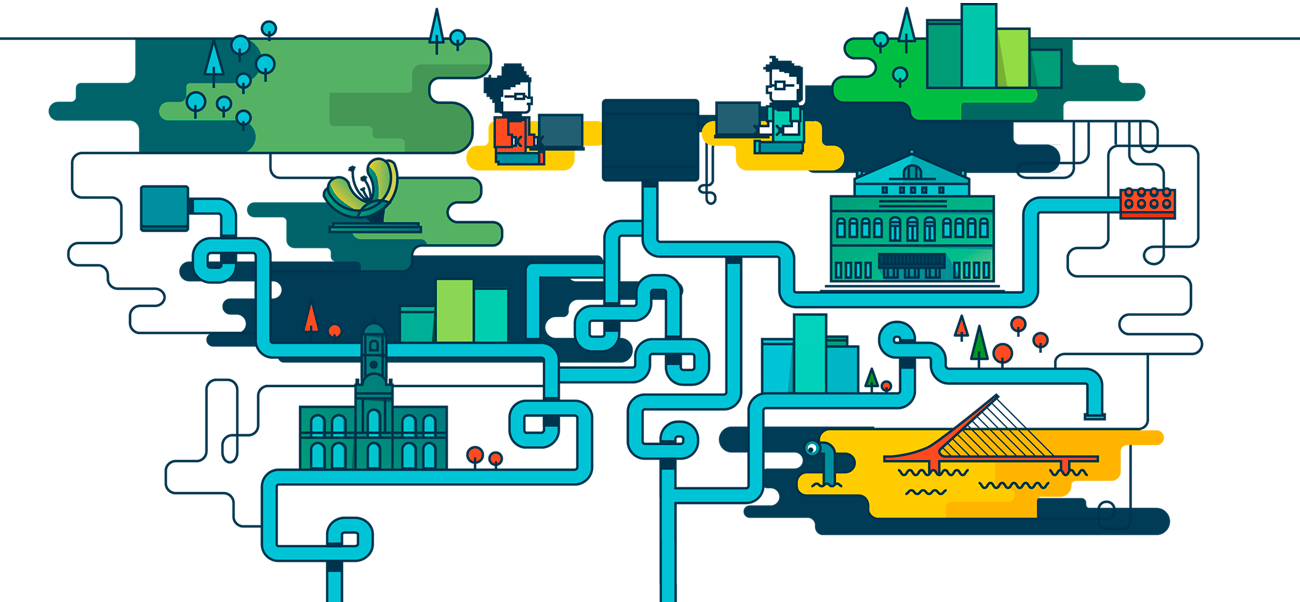
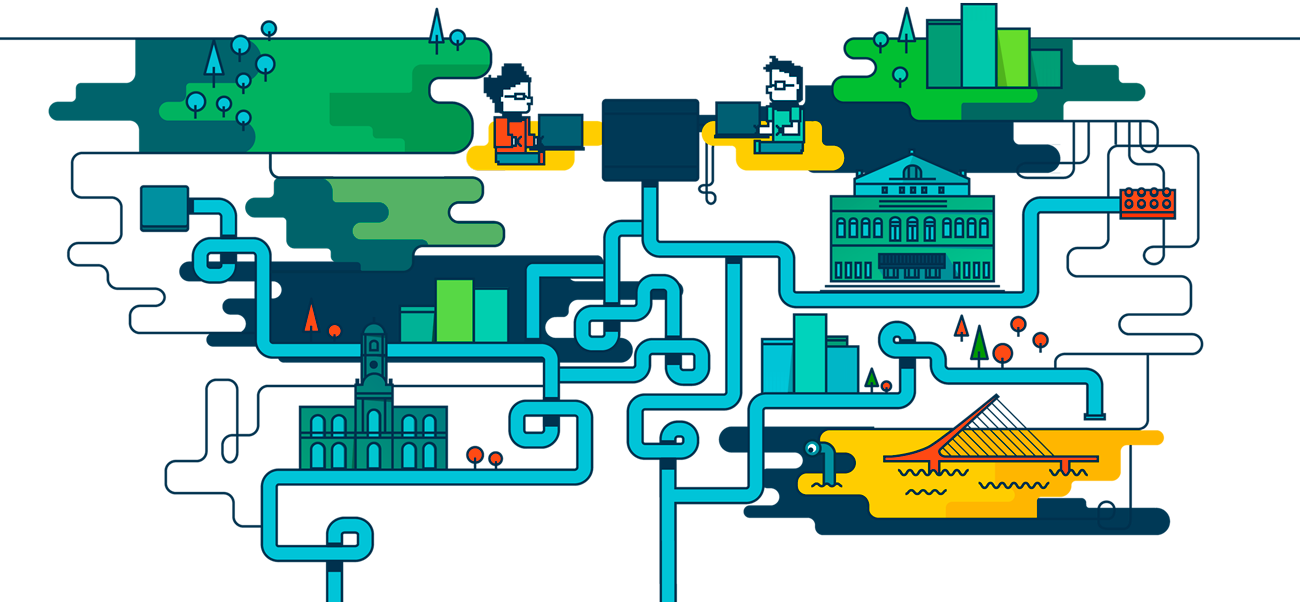
Animacion de Flor

diff --git a/index.html b/index.html
@@ -399,6 +399,27 @@
           </div>
          
         </div>
+        <!-- Flower -->
+        <div class="flower">
+          <div class="flower-base">
+            <svg version="1.1" xmlns="http://www.w3.org/2000/svg" xmlns:xlink="http://www.w3.org/1999/xlink" xmlns:a="http://ns.adobe.com/AdobeSVGViewerExtensions/3.0/" x="0px" y="0px" width="76px" height="28.6px" viewBox="0 0 76 28.6" enable-background="new 0 0 76 28.6" xml:space="preserve"><path fill="none" stroke="#0C374E" stroke-width="2" stroke-linecap="round" stroke-linejoin="round" stroke-miterlimit="10" d="M34.2,2.9c-0.1,0-0.1,0-0.2,0"/><linearGradient id="SVGID_1_" gradientUnits="userSpaceOnUse" x1="5.1891" y1="-25.6308" x2="30.8273" y2="-25.6308" gradientTransform="matrix(0.9999 1.007402e-02 -1.007402e-02 0.9999 18.8223 33.611)"><stop offset="0" style="stop-color:#009B79"/><stop offset="1" style="stop-color:#01747B"/></linearGradient><path fill="url(#SVGID_1_)" d="M39.4,11.4c-4.8,2.4-15.2,3.3-15.2,3.3s3.7-8.6,10.6-11.5s15.2-1,15.2-1S44.2,9,39.4,11.4z"/><path fill="none" stroke="#0C374E" stroke-width="2" stroke-linecap="round" stroke-linejoin="round" stroke-miterlimit="10" d="M50.1,2.9c-4.8-2.3-10.6-2.6-15.8-0.1c-5.2,2.4-8.8,7-10.1,12.2c0,0,10-0.2,15.2-3.3C43.8,9,50.1,2.9,50.1,2.9z"/><path fill="none" stroke="#0C374E" stroke-width="2" stroke-linejoin="round" stroke-miterlimit="10" d="M27.2,8.6c1.8,0,11.6-0.5,17.5-7.5"/><polygon fill="#103149" points="45.3,23.8 41.7,24.2 31.7,14.9 45.2,9.4 "/><linearGradient id="SVGID_2_" gradientUnits="userSpaceOnUse" x1="5" y1="22.1036" x2="73" y2="22.1036"><stop offset="0" style="stop-color:#009B79"/><stop offset="1" style="stop-color:#01747B"/></linearGradient><rect x="5" y="20.6" fill="url(#SVGID_2_)" width="68" height="3"/><linearGradient id="SVGID_3_" gradientUnits="userSpaceOnUse" x1="2" y1="25.6036" x2="76" y2="25.6036"><stop offset="0" style="stop-color:#009B79"/><stop offset="1" style="stop-color:#01747B"/></linearGradient><rect x="2" y="23.6" fill="url(#SVGID_3_)" width="74" height="4"/><rect x="1" y="23.6" fill="none" stroke="#0C374E" stroke-width="2" stroke-miterlimit="10" width="74" height="4"/><rect x="4" y="20.6" fill="none" stroke="#0C374E" stroke-width="2" stroke-miterlimit="10" width="69" height="3"/><polygon fill="none" stroke="#0C374E" stroke-width="2" stroke-miterlimit="10" points="39.4,12.1 33,15.3 39.4,20.6 44,20.6 45.5,8.8 "/></svg>
+          </div> 
+          <div class="flower-petal-1">
+            <svg version="1.1" xmlns="http://www.w3.org/2000/svg" xmlns:xlink="http://www.w3.org/1999/xlink" xmlns:a="http://ns.adobe.com/AdobeSVGViewerExtensions/3.0/" x="0px" y="0px" width="42.4px" height="29.2px" viewBox="0 0 42.4 29.2" enable-background="new 0 0 42.4 29.2" xml:space="preserve"><defs></defs><path fill="#CCCA5D" d="M3.4,17.2c-4.1-3.4-3-9.1,0-12.8C6.5,0.6,12,0.1,15.7,3.2c0.3,0.3,2.4,2.7,3.1,6c1.5,5.5,14,12.5,14,12.5l7.1,1.1l-4.8,3.3l-6.7,1.9C28.4,27.9,16.8,30.6,3.4,17.2z"/><path fill="#159679" d="M32.5,24.4c-1.2,0.2-2.4,0.3-3.6,0.3C19.8,24.6,13,23,4.6,13.4c-3.3-2.7-4.6,0.9-0.5,4.3c13.4,13.4,25,10.8,25,10.8l6.7-1.9l4.8-3.3L38,22.9C36.1,23.5,34.3,24,32.5,24.4z"/><path fill="none" stroke="#0C374E" stroke-width="2" stroke-linecap="round" stroke-linejoin="round" stroke-miterlimit="10" d="M36.9,25.5C23.6,31.8,8,26.7,1.9,13.7l0,0C-0.2,9.2,1.6,4,6.1,1.9s9.7-0.2,11.8,4.2l0,0c0.4,1.4,0.5,1.9,1.2,3.2c3.2,6.7,9.3,11.1,16,12.4l6.3,1.1C40,23.8,38.5,24.7,36.9,25.5z"/></svg>
+          </div>
+          <div class="flower-petal-2">
+            <svg version="1.1" xmlns="http://www.w3.org/2000/svg" xmlns:xlink="http://www.w3.org/1999/xlink" xmlns:a="http://ns.adobe.com/AdobeSVGViewerExtensions/3.0/" x="0px" y="0px" width="42.6px" height="28.8px" viewBox="0 0 42.6 28.8" enable-background="new 0 0 42.6 28.8" xml:space="preserve"><defs></defs><path fill="#C3C151" d="M3.5,17.3C-0.6,14,0.3,8.2,3.3,4.5c3-3.8,8.5-4.4,12.3-1.4C15.9,3.3,18,5.7,18.9,9c1.6,5.5,14.3,12.2,14.3,12.2l7.6,1.4l-5.7,2.2l-6.3,2.8C28.8,27.6,17.2,30.5,3.5,17.3z"/><path fill="#1F9079" d="M32.1,23.4c-5.4,1.2-11,0.3-15.9-2c-2.5-1.2-4.8-2.7-6.8-4.5c-2.2-1.9-4.1-4.6-7-5.4c-0.2,0-0.4-0.1-0.6-0.1c0.6,2.7,1.7,6,3.8,7.8c4.4,3.9,10.6,7.2,16.4,8.2c1.9,0.4,5.2,1,7.1,0.1l6.3-2.8l5.7-2.2c-1-0.2-2-0.4-3-0.5c-1.7-0.3-2.3,0.2-4,0.8C33.4,23.1,32.7,23.3,32.1,23.4z"/><path fill="none" stroke="#0C374E" stroke-width="2" stroke-linecap="round" stroke-linejoin="round" stroke-miterlimit="10" d="M37.2,24.9C24,31.5,8.4,26.7,1.9,13.8l0,0c-2.2-4.4-0.4-9.7,4-11.9s9.7-0.4,11.9,4l0,0c0.4,1.4,0.6,1.8,1.2,3.2c3.3,6.6,9.5,10.9,16.3,12l6.3,1C40.3,23.2,38.8,24.1,37.2,24.9z"/></svg>
+          </div>
+          <div class="flower-petal-3">
+            <svg version="1.1" xmlns="http://www.w3.org/2000/svg" xmlns:xlink="http://www.w3.org/1999/xlink" xmlns:a="http://ns.adobe.com/AdobeSVGViewerExtensions/3.0/" x="0px" y="0px" width="22.6px" height="43.4px" viewBox="0 0 22.6 43.4" enable-background="new 0 0 22.6 43.4" xml:space="preserve"><defs></defs><path fill="#CCCA5D" d="M20.9,9.5c0-5.3-5.1-8.2-9.9-8.2c-4.8,0-8.7,3.9-8.7,8.7c0,0.4,0.5,3.5,2.6,6.2C8.2,21,5.6,35.1,5.6,35.1l-3.7,6.2l5.6-1.6l5.8-4C13.2,35.7,22.7,28.5,20.9,9.5z"/><path fill="#117D7A" d="M9.2,37c2.7-4.3,2.8-10.6,2.2-15.6c-0.3-2.7-1.1-5.1-2.4-7.5c-0.7-1.3-1.6-2.5-2.6-3.7c-0.3-0.3-3.1-3-3.1-3c-0.4,1-0.7,2.2-0.7,3.4c0,0.4,0.5,3.5,2.6,6.2C8.5,21.5,5,36.6,5,36.6s-4.4,5.2-3.1,5C5.4,41.1,7.7,39.4,9.2,37z"/><path fill="none" stroke="#0C374E" stroke-width="2" stroke-linecap="round" stroke-linejoin="round" stroke-miterlimit="10" d="M5.9,40.6c13.3-6.2,19.4-21.4,13.3-34.5l0,0c-2.1-4.4-7.4-6.4-11.8-4.3S1.1,9.2,3.1,13.6l0,0c0.8,1.2,1.1,1.6,1.7,2.9C8,23.3,7.5,30.8,4.2,36.8L1,42.4C2.7,41.9,4.3,41.4,5.9,40.6z"/></svg>
+          </div>
+          <div class="flower-petal-4">
+            <svg version="1.1" xmlns="http://www.w3.org/2000/svg" xmlns:xlink="http://www.w3.org/1999/xlink" xmlns:a="http://ns.adobe.com/AdobeSVGViewerExtensions/3.0/" x="0px" y="0px" width="22.6px" height="43.4px" viewBox="0 0 22.6 43.4" enable-background="new 0 0 22.6 43.4" xml:space="preserve"><defs></defs><path fill="#9FB85E" d="M20.9,9.5c0-5.3-5.1-8.2-9.9-8.2c-4.8,0-8.7,3.9-8.7,8.7c0,0.4,0.5,3.5,2.6,6.2C8.2,21,5.6,35.1,5.6,35.1l1.6,3.8l6.1-3.2C13.2,35.7,22.7,28.5,20.9,9.5z"/><path fill="#13867A" d="M9,37c2.7-4.3,2.8-10.6,2.2-15.6c-0.3-2.7-1.1-5.1-2.4-7.5c-0.7-1.3-1.6-2.5-2.6-3.7c-0.3-0.3-3.1-3-3.1-3c-0.4,1-0.7,2.2-0.7,3.4c0,0.4,0.5,3.5,2.6,6.2c3.3,4.7-0.2,19.8-0.2,19.8s-4.4,5.2-3.1,5C5.2,41.1,7.5,39.4,9,37z"/><path fill="none" stroke="#0C374E" stroke-width="2" stroke-linecap="round" stroke-linejoin="round" stroke-miterlimit="10" d="M5.9,40.6c13.3-6.2,19.4-21.4,13.3-34.5l0,0c-2.1-4.4-7.4-6.4-11.8-4.3S1.1,9.2,3.1,13.6l0,0c0.8,1.2,1.1,1.6,1.7,2.9C8,23.3,7.5,30.8,4.2,36.8L1,42.4C2.7,41.9,4.3,41.4,5.9,40.6z"/></svg>
+          </div>
+          <div class="flower-inner">
+            <svg version="1.1" xmlns="http://www.w3.org/2000/svg" xmlns:xlink="http://www.w3.org/1999/xlink" xmlns:a="http://ns.adobe.com/AdobeSVGViewerExtensions/3.0/" x="0px" y="0px" width="19.3px" height="31.4px" viewBox="0 0 19.3 31.4" enable-background="new 0 0 19.3 31.4" xml:space="preserve"><path fill="none" stroke="#0C374E" stroke-width="2" stroke-linecap="round" stroke-linejoin="round" stroke-miterlimit="10" d="M16.9,29.4C9.8,25.1,4.8,17.7,4,8.8C3.8,6.9,3.8,5,4,3.1"/><path fill="none" stroke="#0C374E" stroke-width="2" stroke-linecap="round" stroke-linejoin="round" stroke-miterlimit="10" d="M18.1,29c-2.6-2.7-4.6-5.9-5.8-9.5"/><path fill="none" stroke="#0C374E" stroke-width="2" stroke-linecap="round" stroke-linejoin="round" stroke-miterlimit="10" d="M18,29.8c1-6.2-0.5-12.8-4.5-18.1"/><path fill="none" stroke="#0C374E" stroke-width="2" stroke-linecap="round" stroke-linejoin="round" stroke-miterlimit="10" d="M17.7,30.4c-0.1,0-0.1,0-0.2,0"/><g><rect x="1.2" y="0.6" transform="matrix(0.9063 -0.4226 0.4226 0.9063 -0.8025 1.567)" fill="#0C374E" width="3.9" height="3.9"/><rect x="0.1" y="1.8" transform="matrix(0.9063 -0.4226 0.4226 0.9063 -0.8025 1.567)" fill="#0C374E" width="6.1" height="1.7"/></g><g><rect x="10.6" y="8.7" transform="matrix(0.9063 -0.4226 0.4226 0.9063 -3.3145 6.3007)" fill="#0C374E" width="3.9" height="3.9"/><rect x="10" y="9.7" transform="matrix(0.9063 -0.4226 0.4226 0.9063 -3.241 6.3964)" fill="#0C374E" width="5.6" height="1.7"/></g><g><rect x="10.6" y="18.2" transform="matrix(0.9063 -0.4226 0.4226 0.9063 -7.0361 6.8741)" fill="#0C374E" width="2.9" height="2.3"/><rect x="9.9" y="18.2" transform="matrix(0.9063 -0.4226 0.4226 0.9063 -6.9377 6.7986)" fill="#0C374E" width="4" height="1.7"/></g></svg>
+          </div>
+        </div>
 
       </div>
       <!-- Numbers -->

diff --git a/static/styles/styles.css b/static/styles/styles.css
@@ -4795,6 +4795,109 @@ body {
   stroke-dasharray: 0, 0, 0, 70, 19, 274;
 }
 
+.flower {
+  width: 100px;
+  height: 75px;
+  position: absolute;
+  top: 160px;
+  left: 50%;
+  margin-left: -328px;
+}
+
+.flower-base {
+  position: absolute;
+  bottom: 0;
+  right: 0;
+  z-index: 10;
+  width: 95px;
+  height: 35px;
+}
+
+.flower-base svg {
+  width: 100%;
+  height: 100%;
+}
+
+.flower .flower-petal-1,
+.flower .flower-petal-2 {
+  -webkit-transform-origin: right bottom;
+  -ms-transform-origin: right bottom;
+  transform-origin: right bottom;
+}
+
+.flower .flower-petal-3,
+.flower .flower-petal-4 {
+  -webkit-transform-origin: left bottom;
+  -ms-transform-origin: left bottom;
+  transform-origin: left bottom;
+}
+
+.flower-petal-1,
+.flower-petal-2,
+.flower-petal-3,
+.flower-petal-4 {
+  -webkit-transition: all 0.3s ease-in;
+  transition: all 0.3s ease-in;
+}
+
+.flower-petal-1 svg,
+.flower-petal-2 svg,
+.flower-petal-3 svg,
+.flower-petal-4 svg {
+  width: 100%;
+  height: 100%;
+}
+
+.flower-petal-1 {
+  position: absolute;
+  top: 27px;
+  left: 0;
+  z-index: 8;
+  width: 47px;
+  height: 33px;
+}
+
+.flower-petal-2 {
+  position: absolute;
+  top: 18px;
+  left: 5px;
+  z-index: 9;
+  width: 47px;
+  height: 36px;
+}
+
+.flower-petal-3 {
+  position: absolute;
+  top: 0px;
+  right: 28px;
+  z-index: 9;
+  width: 27px;
+  height: 49px;
+}
+
+.flower-petal-4 {
+  position: absolute;
+  top: 3px;
+  right: 22px;
+  z-index: 8;
+  width: 27px;
+  height: 49px;
+}
+
+.flower-inner {
+  position: absolute;
+  bottom: 30px;
+  right: 50px;
+  z-index: 1;
+  width: 25px;
+  height: 35px;
+}
+
+.flower-inner svg {
+  width: 100%;
+  height: 100%;
+}
+
 @-webkit-keyframes shake-base {
   0% {
     -webkit-transform: translate(0px, 0px) rotate(0deg);
@@ -11564,3 +11667,5 @@ main {
   opacity: 0.5;
   display: none;
 }
+
+/*# sourceMappingURL=styles.css.map */

diff --git a/static/styles/animations-headers.scss b/static/styles/animations-headers.scss
@@ -810,6 +810,96 @@
 .hackers .cable_right .cable-right-4 {
   stroke-dasharray: 0, 0, 0, 70, 19, 274;
 }
+.flower {
+  width: 100px;
+  height: 75px;
+  position: absolute;
+  top: 160px;
+  left: 50%;
+  margin-left: -328px;
+}
+.flower-base {
+  position: absolute;
+  bottom: 0;
+  right: 0;
+  z-index: 10;
+  width: 95px;
+  height: 35px;
+}
+.flower-base svg {
+  width: 100%;
+  height: 100%;
+}
+.flower .flower-petal-1,
+.flower .flower-petal-2 {
+  -webkit-transform-origin: right bottom;
+  -ms-transform-origin: right bottom;
+  transform-origin: right bottom;
+}
+.flower .flower-petal-3,
+.flower .flower-petal-4 {
+  -webkit-transform-origin: left bottom;
+  -ms-transform-origin: left bottom;
+  transform-origin: left bottom;
+}
+.flower-petal-1,
+.flower-petal-2,
+.flower-petal-3,
+.flower-petal-4 {
+  -webkit-transition: all 0.3s ease-in;
+  transition: all 0.3s ease-in;
+}
+.flower-petal-1 svg,
+.flower-petal-2 svg,
+.flower-petal-3 svg,
+.flower-petal-4 svg {
+  width: 100%;
+  height: 100%;
+}
+.flower-petal-1 {
+  position: absolute;
+  top: 27px;
+  left: 0;
+  z-index: 8;
+  width: 47px;
+  height: 33px;
+}
+.flower-petal-2 {
+  position: absolute;
+  top: 18px;
+  left: 5px;
+  z-index: 9;
+  width: 47px;
+  height: 36px;
+}
+.flower-petal-3 {
+  position: absolute;
+  top: 0px;
+  right: 28px;
+  z-index: 9;
+  width: 27px;
+  height: 49px;
+}
+.flower-petal-4 {
+  position: absolute;
+  top: 3px;
+  right: 22px;
+  z-index: 8;
+  width: 27px;
+  height: 49px;
+}
+.flower-inner {
+  position: absolute;
+  bottom: 30px;
+  right: 50px;
+  z-index: 1;
+  width: 25px;
+  height: 35px;
+}
+.flower-inner svg {
+  width: 100%;
+  height: 100%;
+}
 @-webkit-keyframes shake-base {
   0% {
     -webkit-transform: translate(0px, 0px) rotate(0deg);

diff --git a/static/js/scripts.js b/static/js/scripts.js
@@ -146,6 +146,42 @@ $(function() {
 });
 // End Obelisk
 
+// Flower 
+function percentClose (date) {
+	var hours = date.getHours();
+	var min = date.getMinutes();
+	if (hours>12) {
+		var hours = hours-12;
+		porcent = (100/720)*((hours*60)+min);
+	}else{
+		porcent = 100-((100/720)*((hours*60)+min));
+	}
+	return porcent;
+}
+
+function animateFlower (closePercent) {
+	var leftDeg = (25/(100/closePercent));
+	var rightDeg = -(15/(100/closePercent));
+	// console.log(leftDeg+','+rightDeg);
+	$('.flower-petal-1 , .flower-petal-2').css({
+		'transform': 'rotateZ('+leftDeg+'deg)',
+		'-webkit-transform': 'rotateZ('+leftDeg+'deg)',
+		'-moz-transform': 'rotateZ('+leftDeg+'deg)'
+	});
+	$('.flower-petal-3 , .flower-petal-4').css({
+		'transform': 'rotateZ('+rightDeg+'deg)',
+		'-webkit-transform': 'rotateZ('+rightDeg+'deg)',
+		'-moz-transform': 'rotateZ('+rightDeg+'deg)'
+	});
+}
+
+var closePercent = percentClose(new Date());
+animateFlower(closePercent);
+setInterval(function() {
+	var closePercent = percentClose(new Date());
+	animateFlower(closePercent);
+},60000)
+
 // Lights of towers
   var colors = ["#0E374E", "#0E374E", "#0E374E", "#0E374E", "#ffcb00"];
   function setTowersLight(groupID) {
